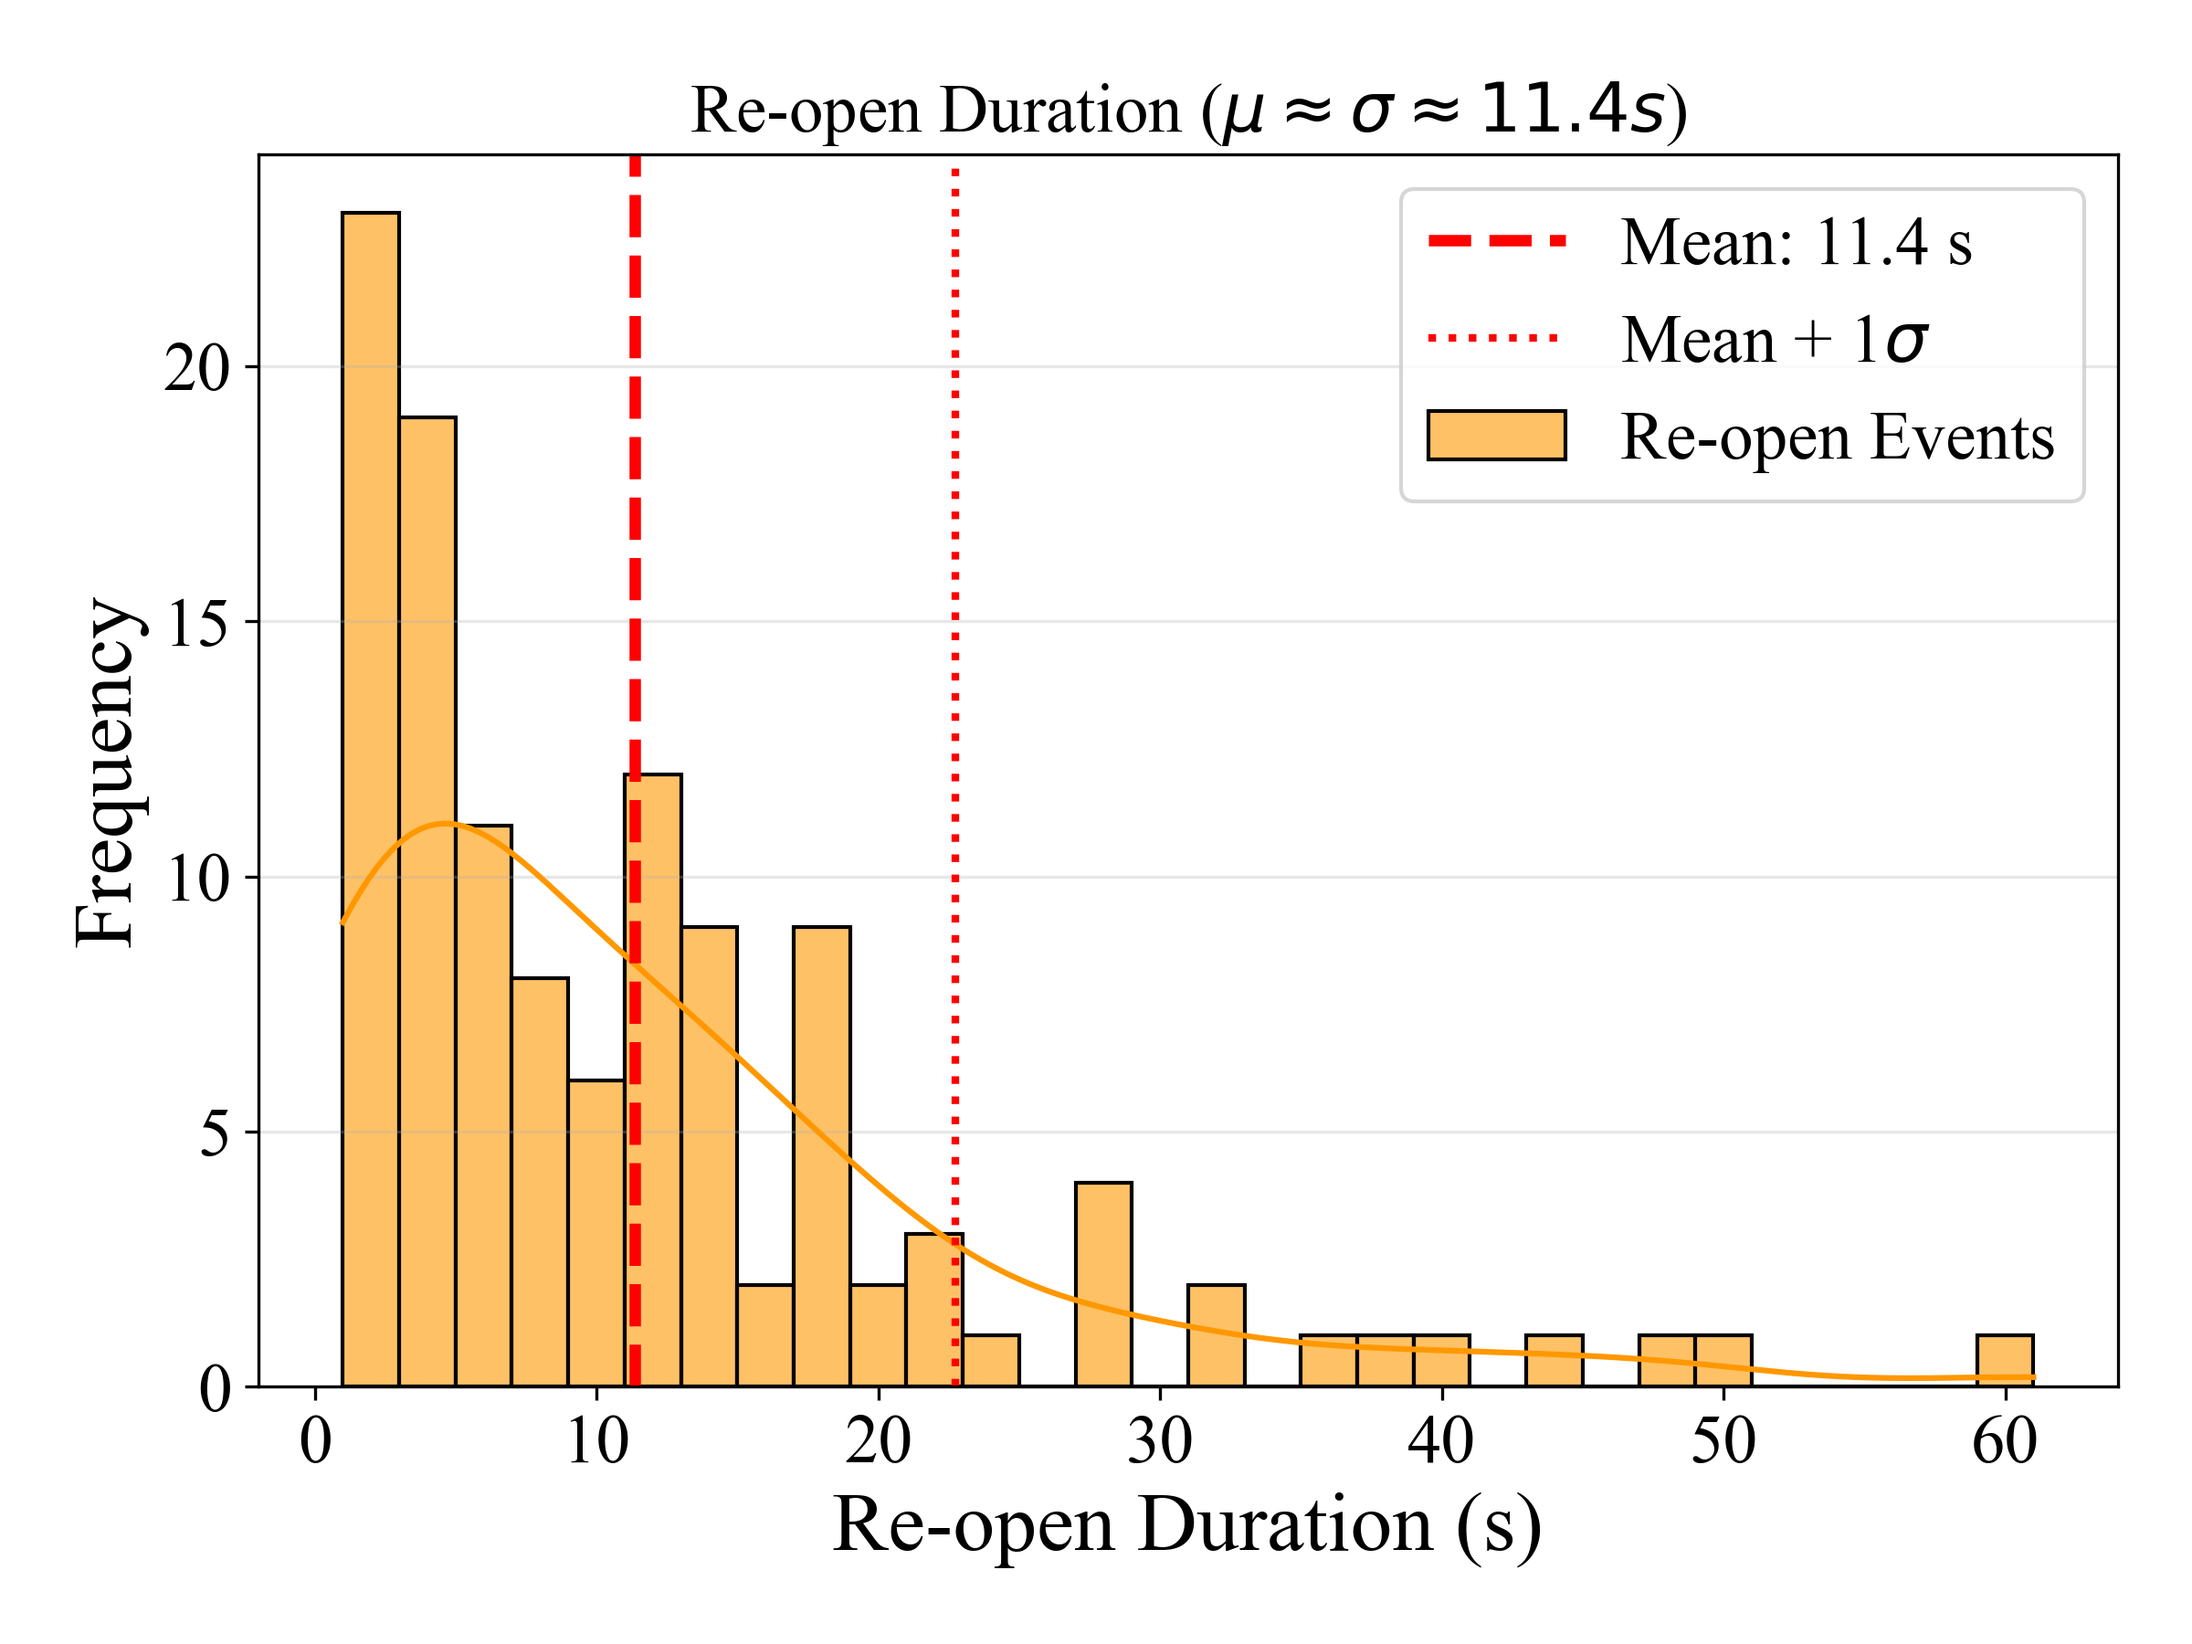
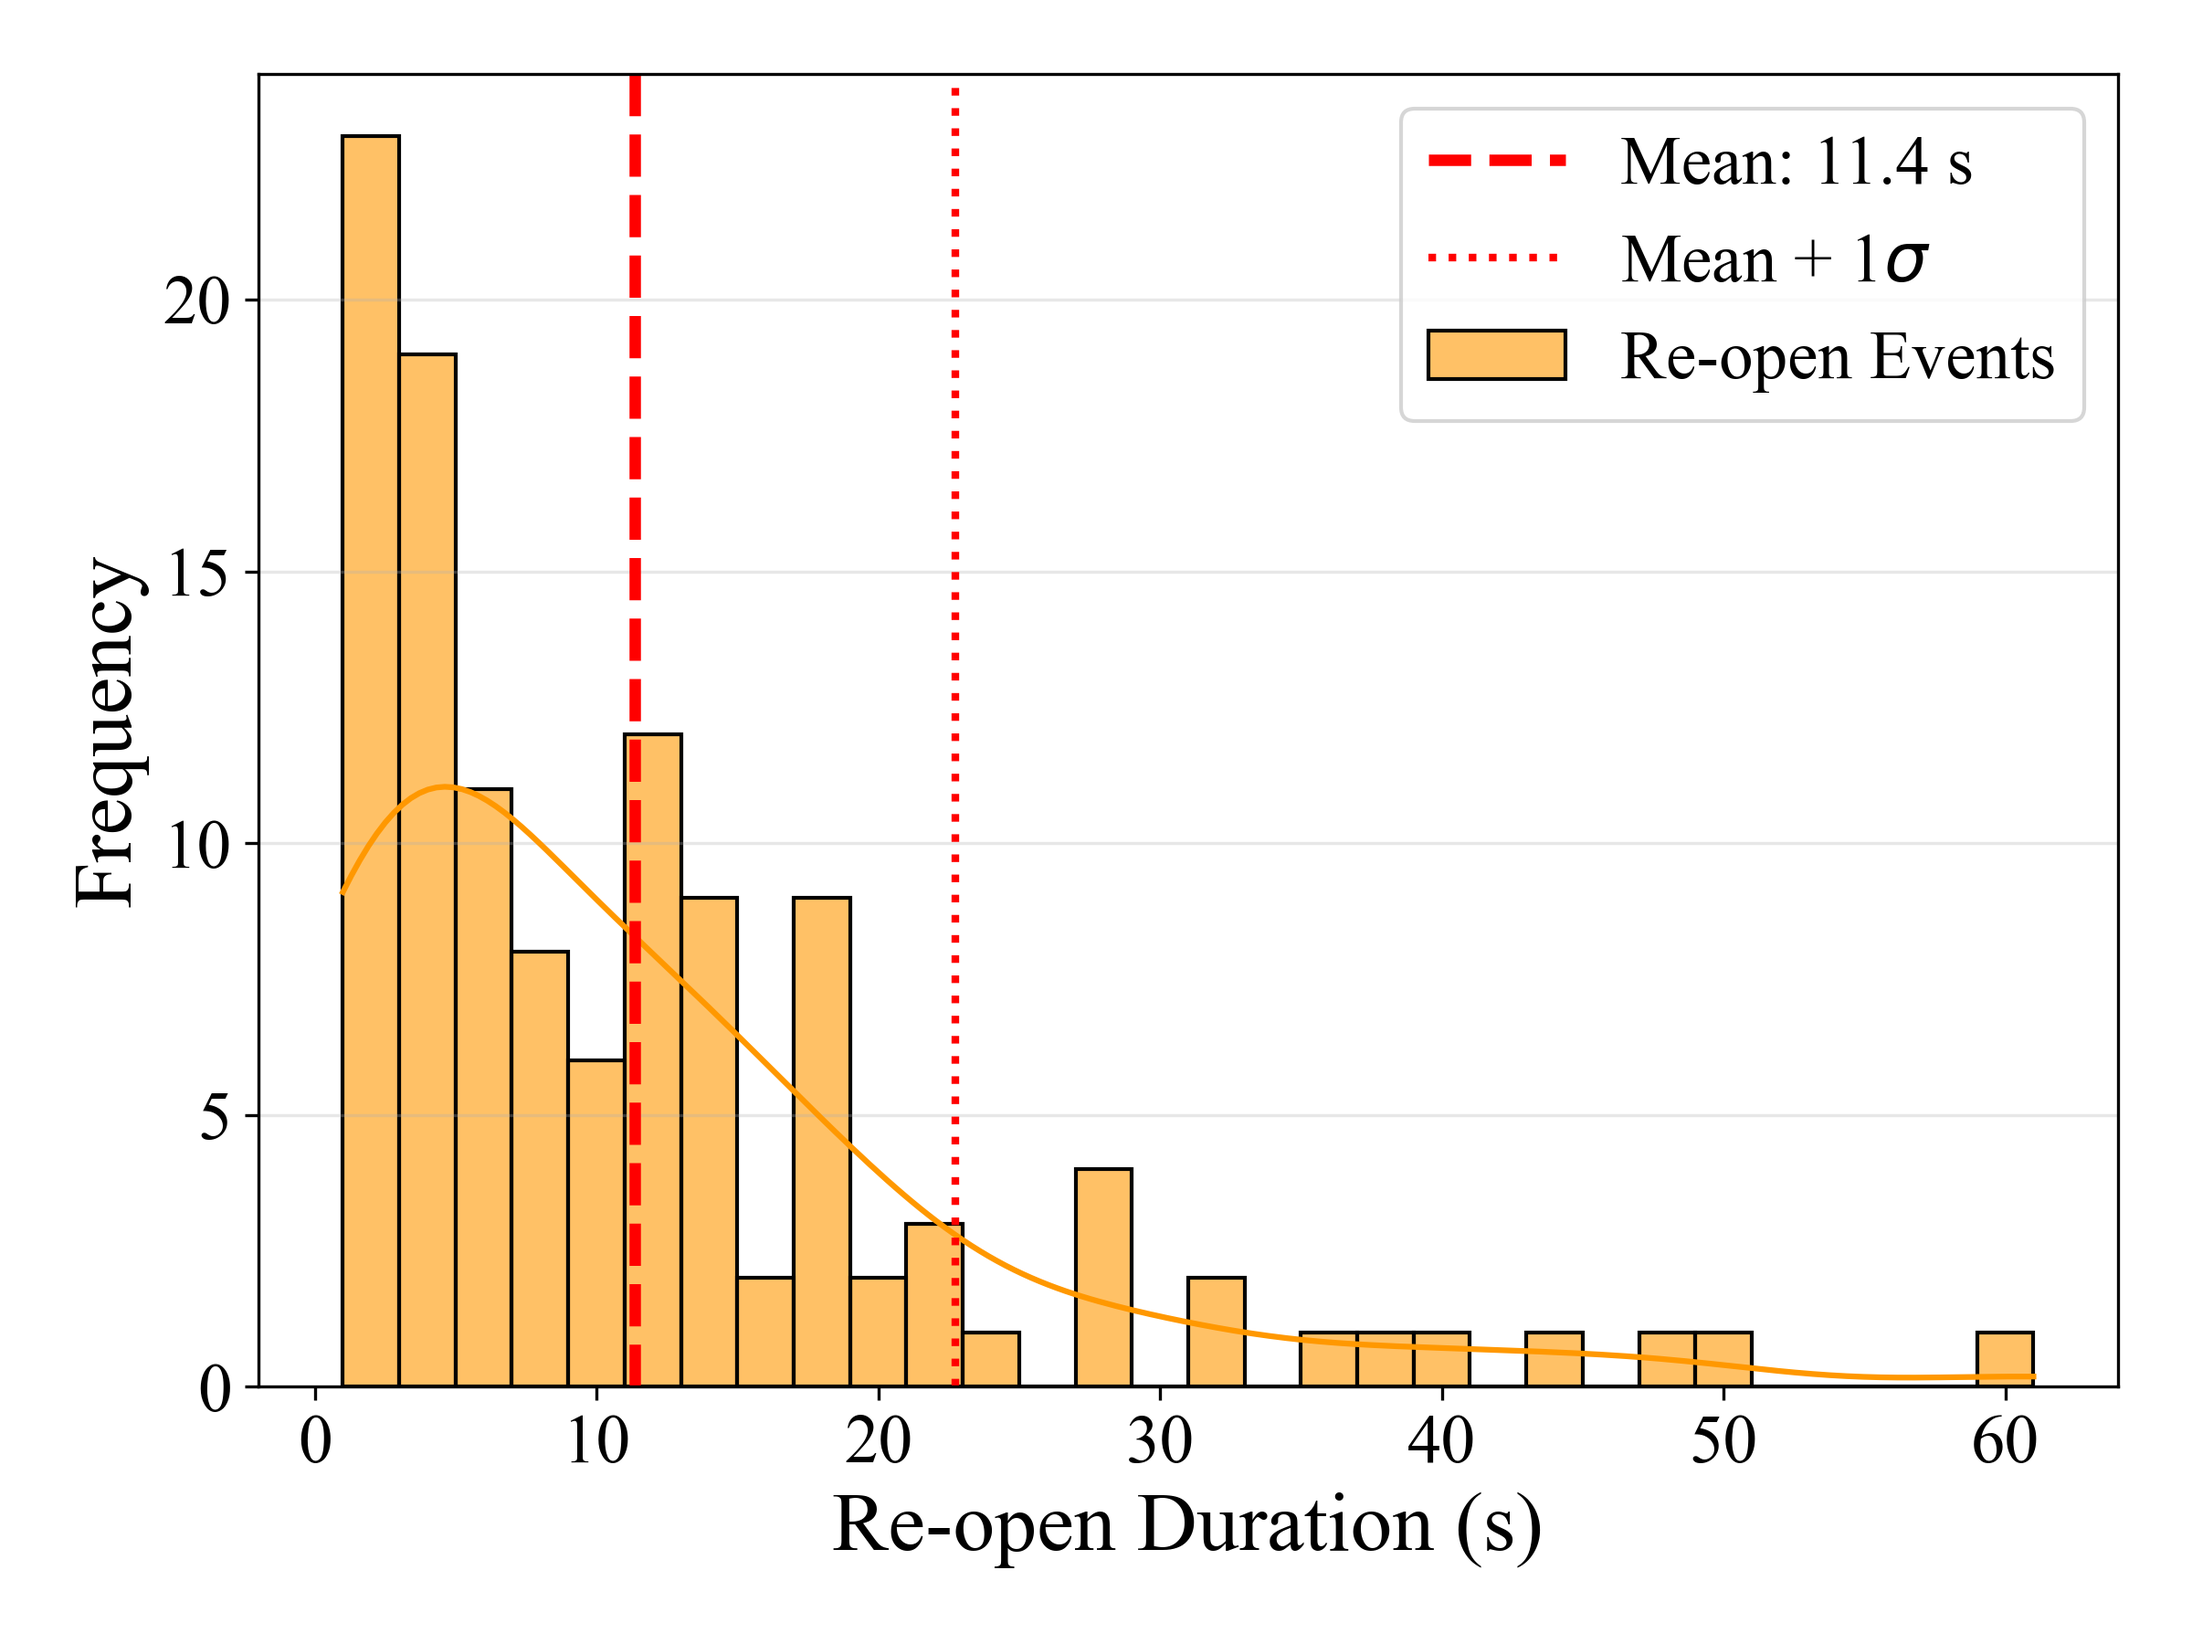
dwell time plot update

diff --git a/dwell_time_calculator/2_analyzing_result.py b/dwell_time_calculator/2_analyzing_result.py
@@ -3,6 +3,7 @@ import numpy as np
 import matplotlib.pyplot as plt
 import seaborn as sns
 import os
+from scipy.stats import expon
 
 # --- 1. Load Data ---
 # UPDATED: Read the file that contains the 'Saved Time' column
@@ -124,6 +125,39 @@ plt.tight_layout()
 plt.savefig(f'{plot_dir}/plot_a_distribution.png', dpi=300)
 plt.close()
 
+
+
+'''
+# --- PLOT B: REOPEN TIME DISTRIBUTION (With Theoretical Fit) ---
+plt.figure(figsize=(8, 6))
+
+# 1. Plot Histogram (Turn OFF KDE to avoid the negative-time confusion)
+sns.histplot(clean_reopen_times, binwidth=2, kde=False, stat="density",
+             color='#FF9800', alpha=0.6, label='Observed Data')
+
+# 2. Calculate Theoretical Exponential Curve
+# For exponential, the scale parameter is equal to the mean
+mu = clean_reopen_times.mean()  # The mean re-open time
+x_vals = np.linspace(0, clean_reopen_times.max(), 100) # Range from 0 to max data
+y_vals = expon.pdf(x_vals, scale=mu) # Calculate the ideal curve heights
+
+# 3. Plot the Theoretical Line
+plt.plot(x_vals, y_vals, 'r-', lw=3, label=f'Theoretical Exp. Fit\n($\mu={mu:.2f}s$)')
+
+# 4. Vertical Lines & Labels
+plt.axvline(avg_reopen_time, color='blue', linestyle='--', linewidth=2, label='Observed Mean')
+
+plt.xlabel('Re-open Duration (s)')
+plt.ylabel('Density (Probability)')
+plt.legend(loc='upper right')
+plt.grid(axis='y', alpha=0.3)
+plt.title("Re-open Duration vs. Ideal Exponential Model")
+
+plt.tight_layout()
+plt.savefig(f'{plot_dir}/plot_b_reopen_exponential_fit.png', dpi=300)
+plt.close()
+'''
+
 # --- PLOT B: REOPEN TIME DISTRIBUTION (New Logic) ---
 plt.figure(figsize=(8, 6))
 
@@ -138,7 +172,7 @@ plt.axvline(avg_reopen_time + std_reopen_time, color='red', linestyle=':', linew
             label=r'Mean + 1$\sigma$')
 
 # 3. Titles and Labels
-plt.title(fr"Re-open Duration ($\mu \approx \sigma \approx {avg_reopen_time:.1f}s$)", fontsize=18)
+# plt.title(fr"Re-open Duration ($\mu \approx \sigma \approx {avg_reopen_time:.1f}s$)", fontsize=18)
 plt.xlabel('Re-open Duration (s)')
 plt.ylabel('Frequency')
 plt.legend(loc='upper right')
